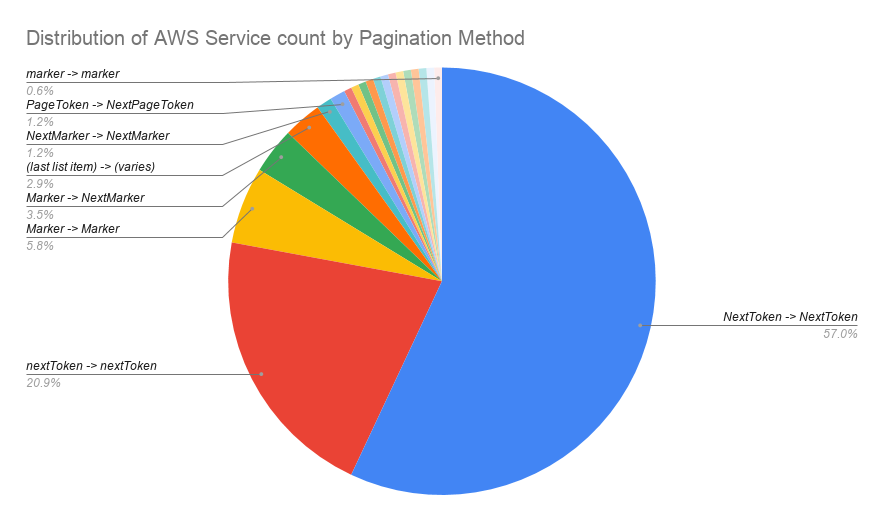
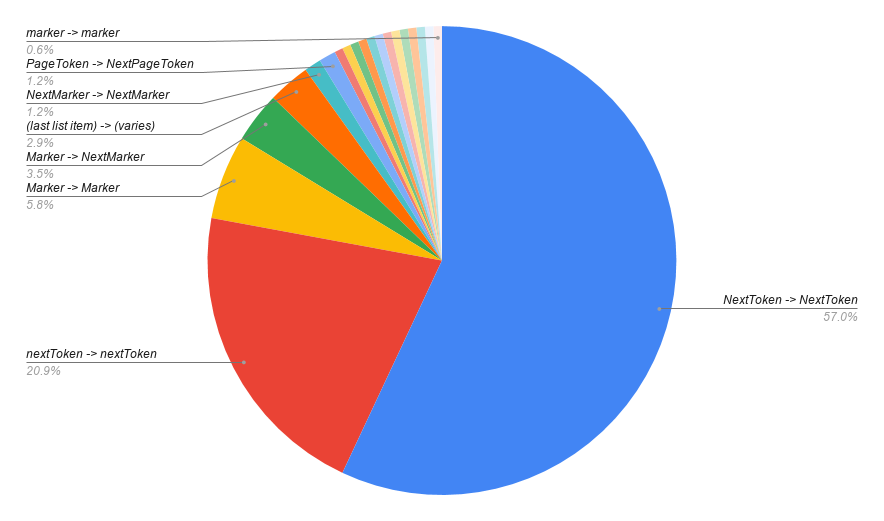
Formatting

diff --git a/README.md b/README.md
@@ -1,5 +1,7 @@
 # AWS Pagination Rules
 
+## Chart: Distribution of AWS service count by pagination method
+
 ![](chart.png)
 
 ## JS SDK
